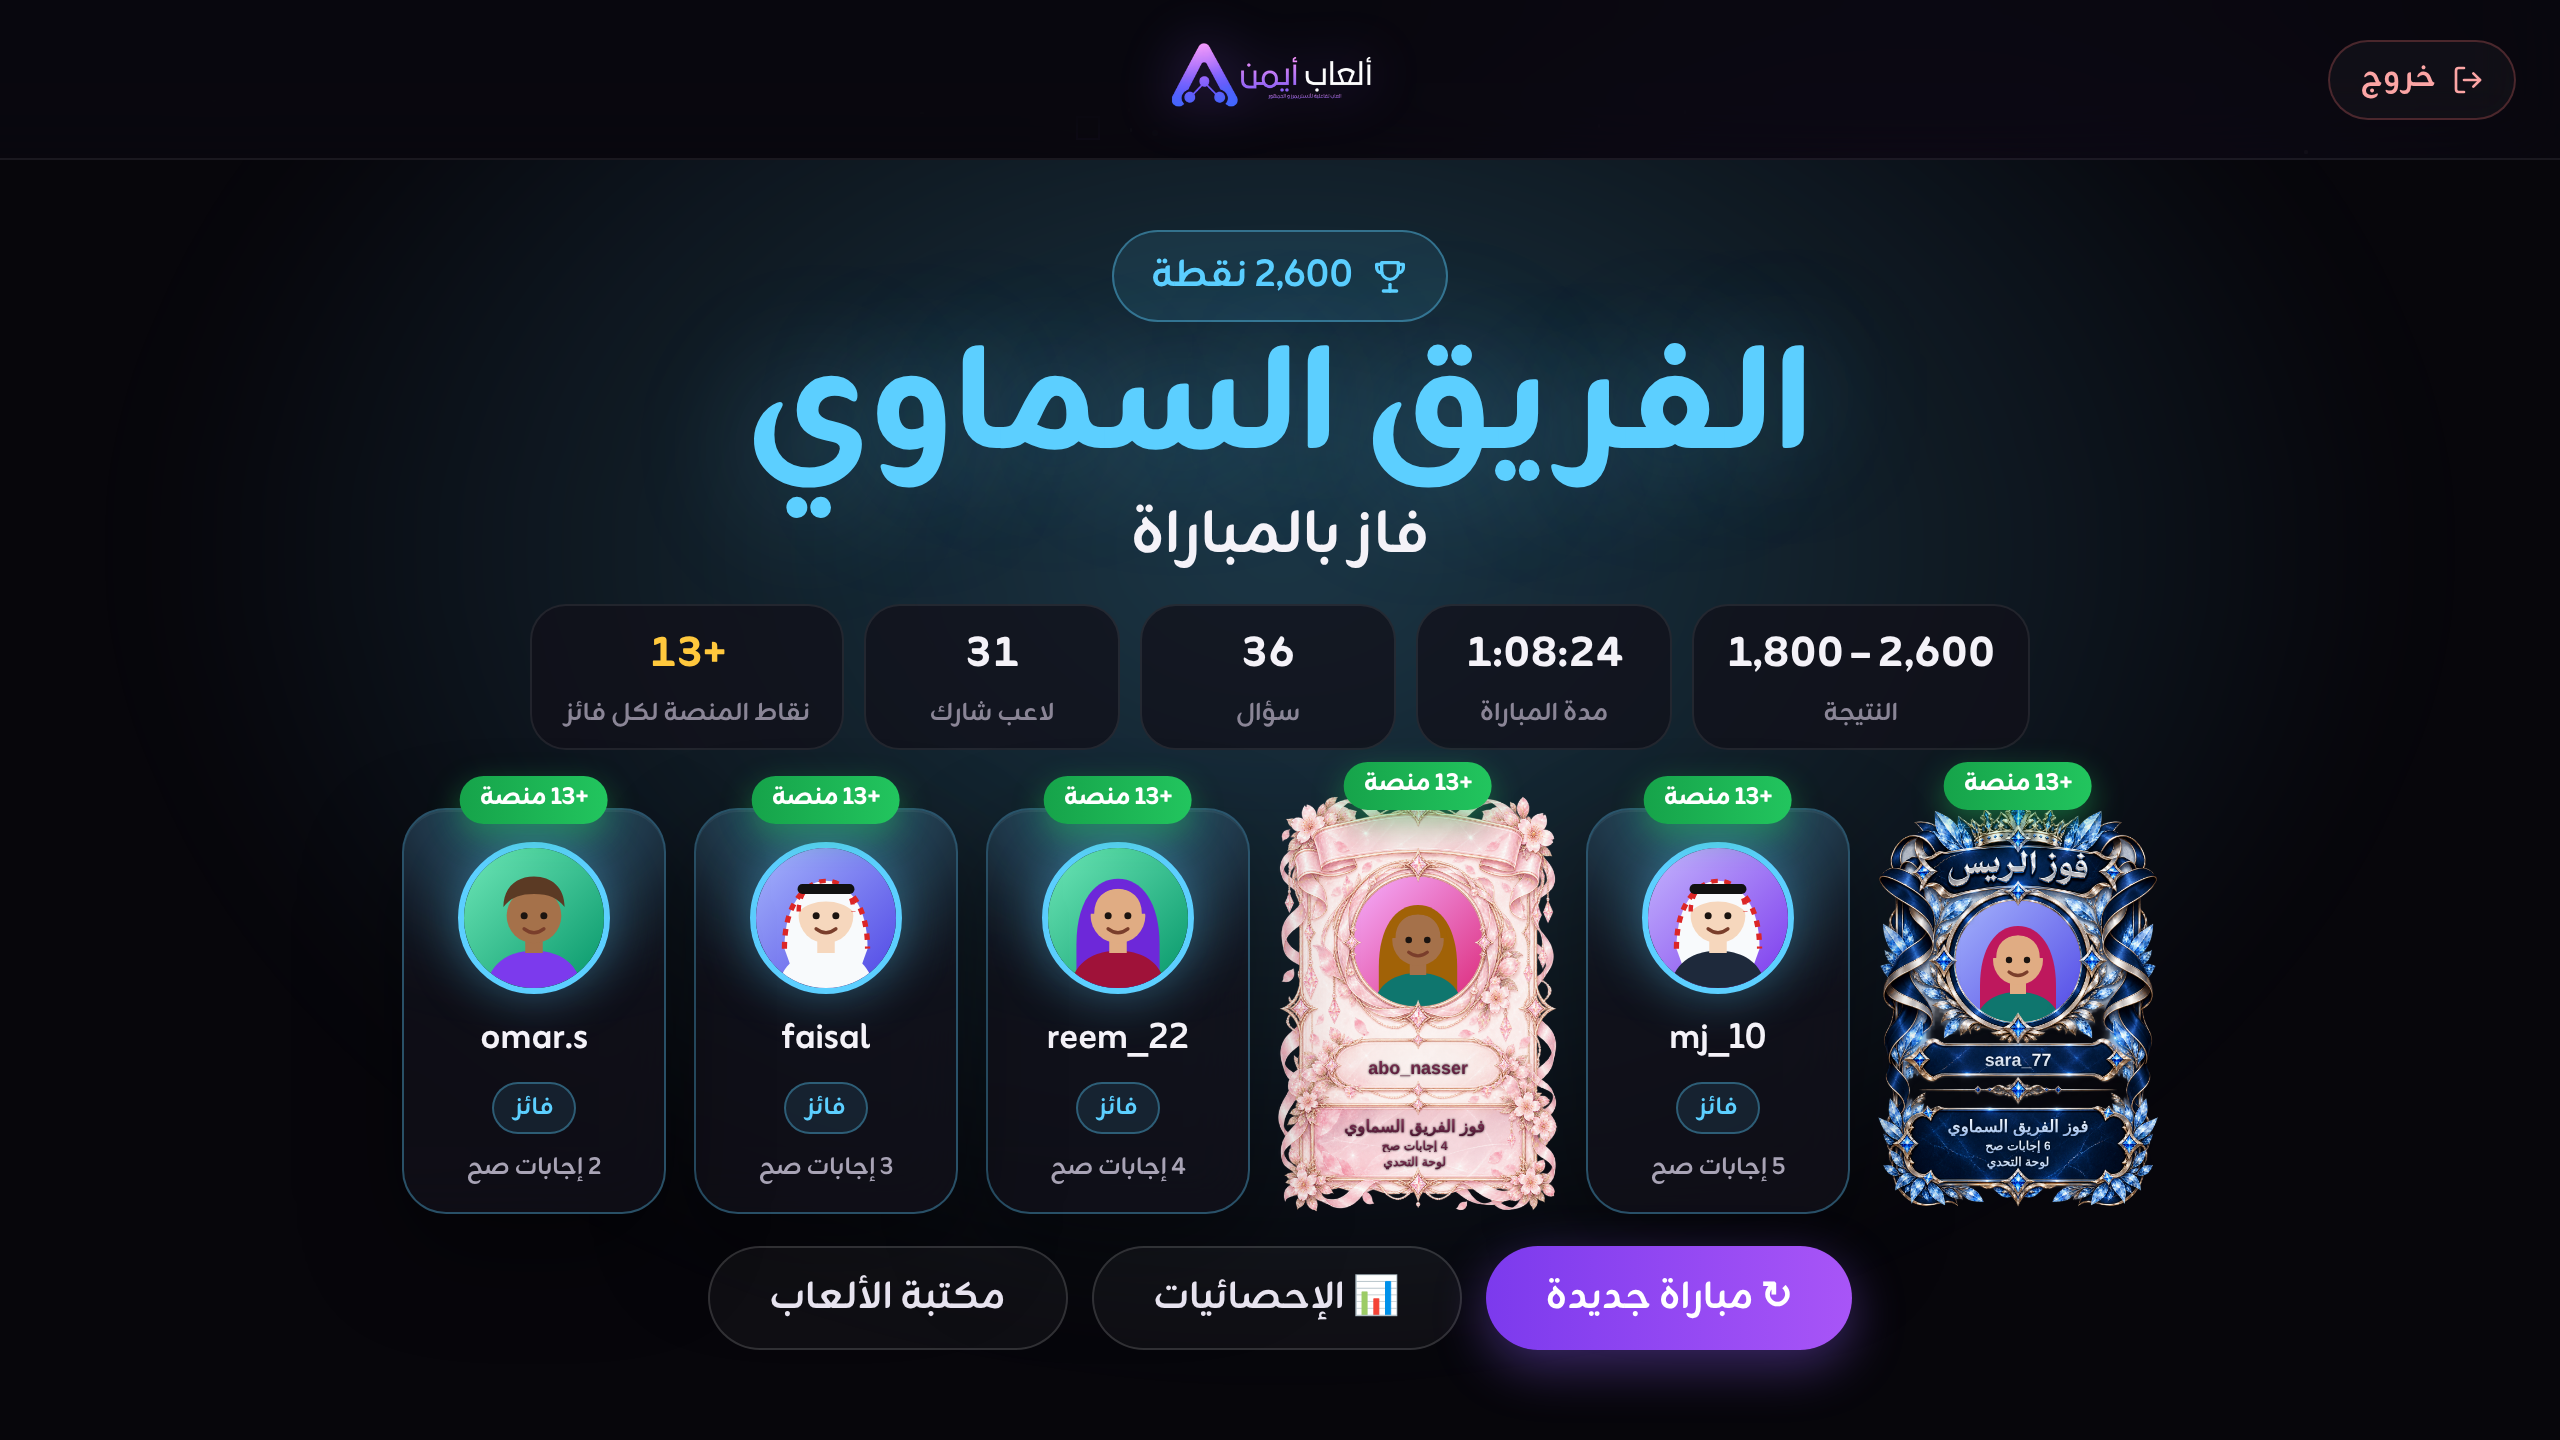
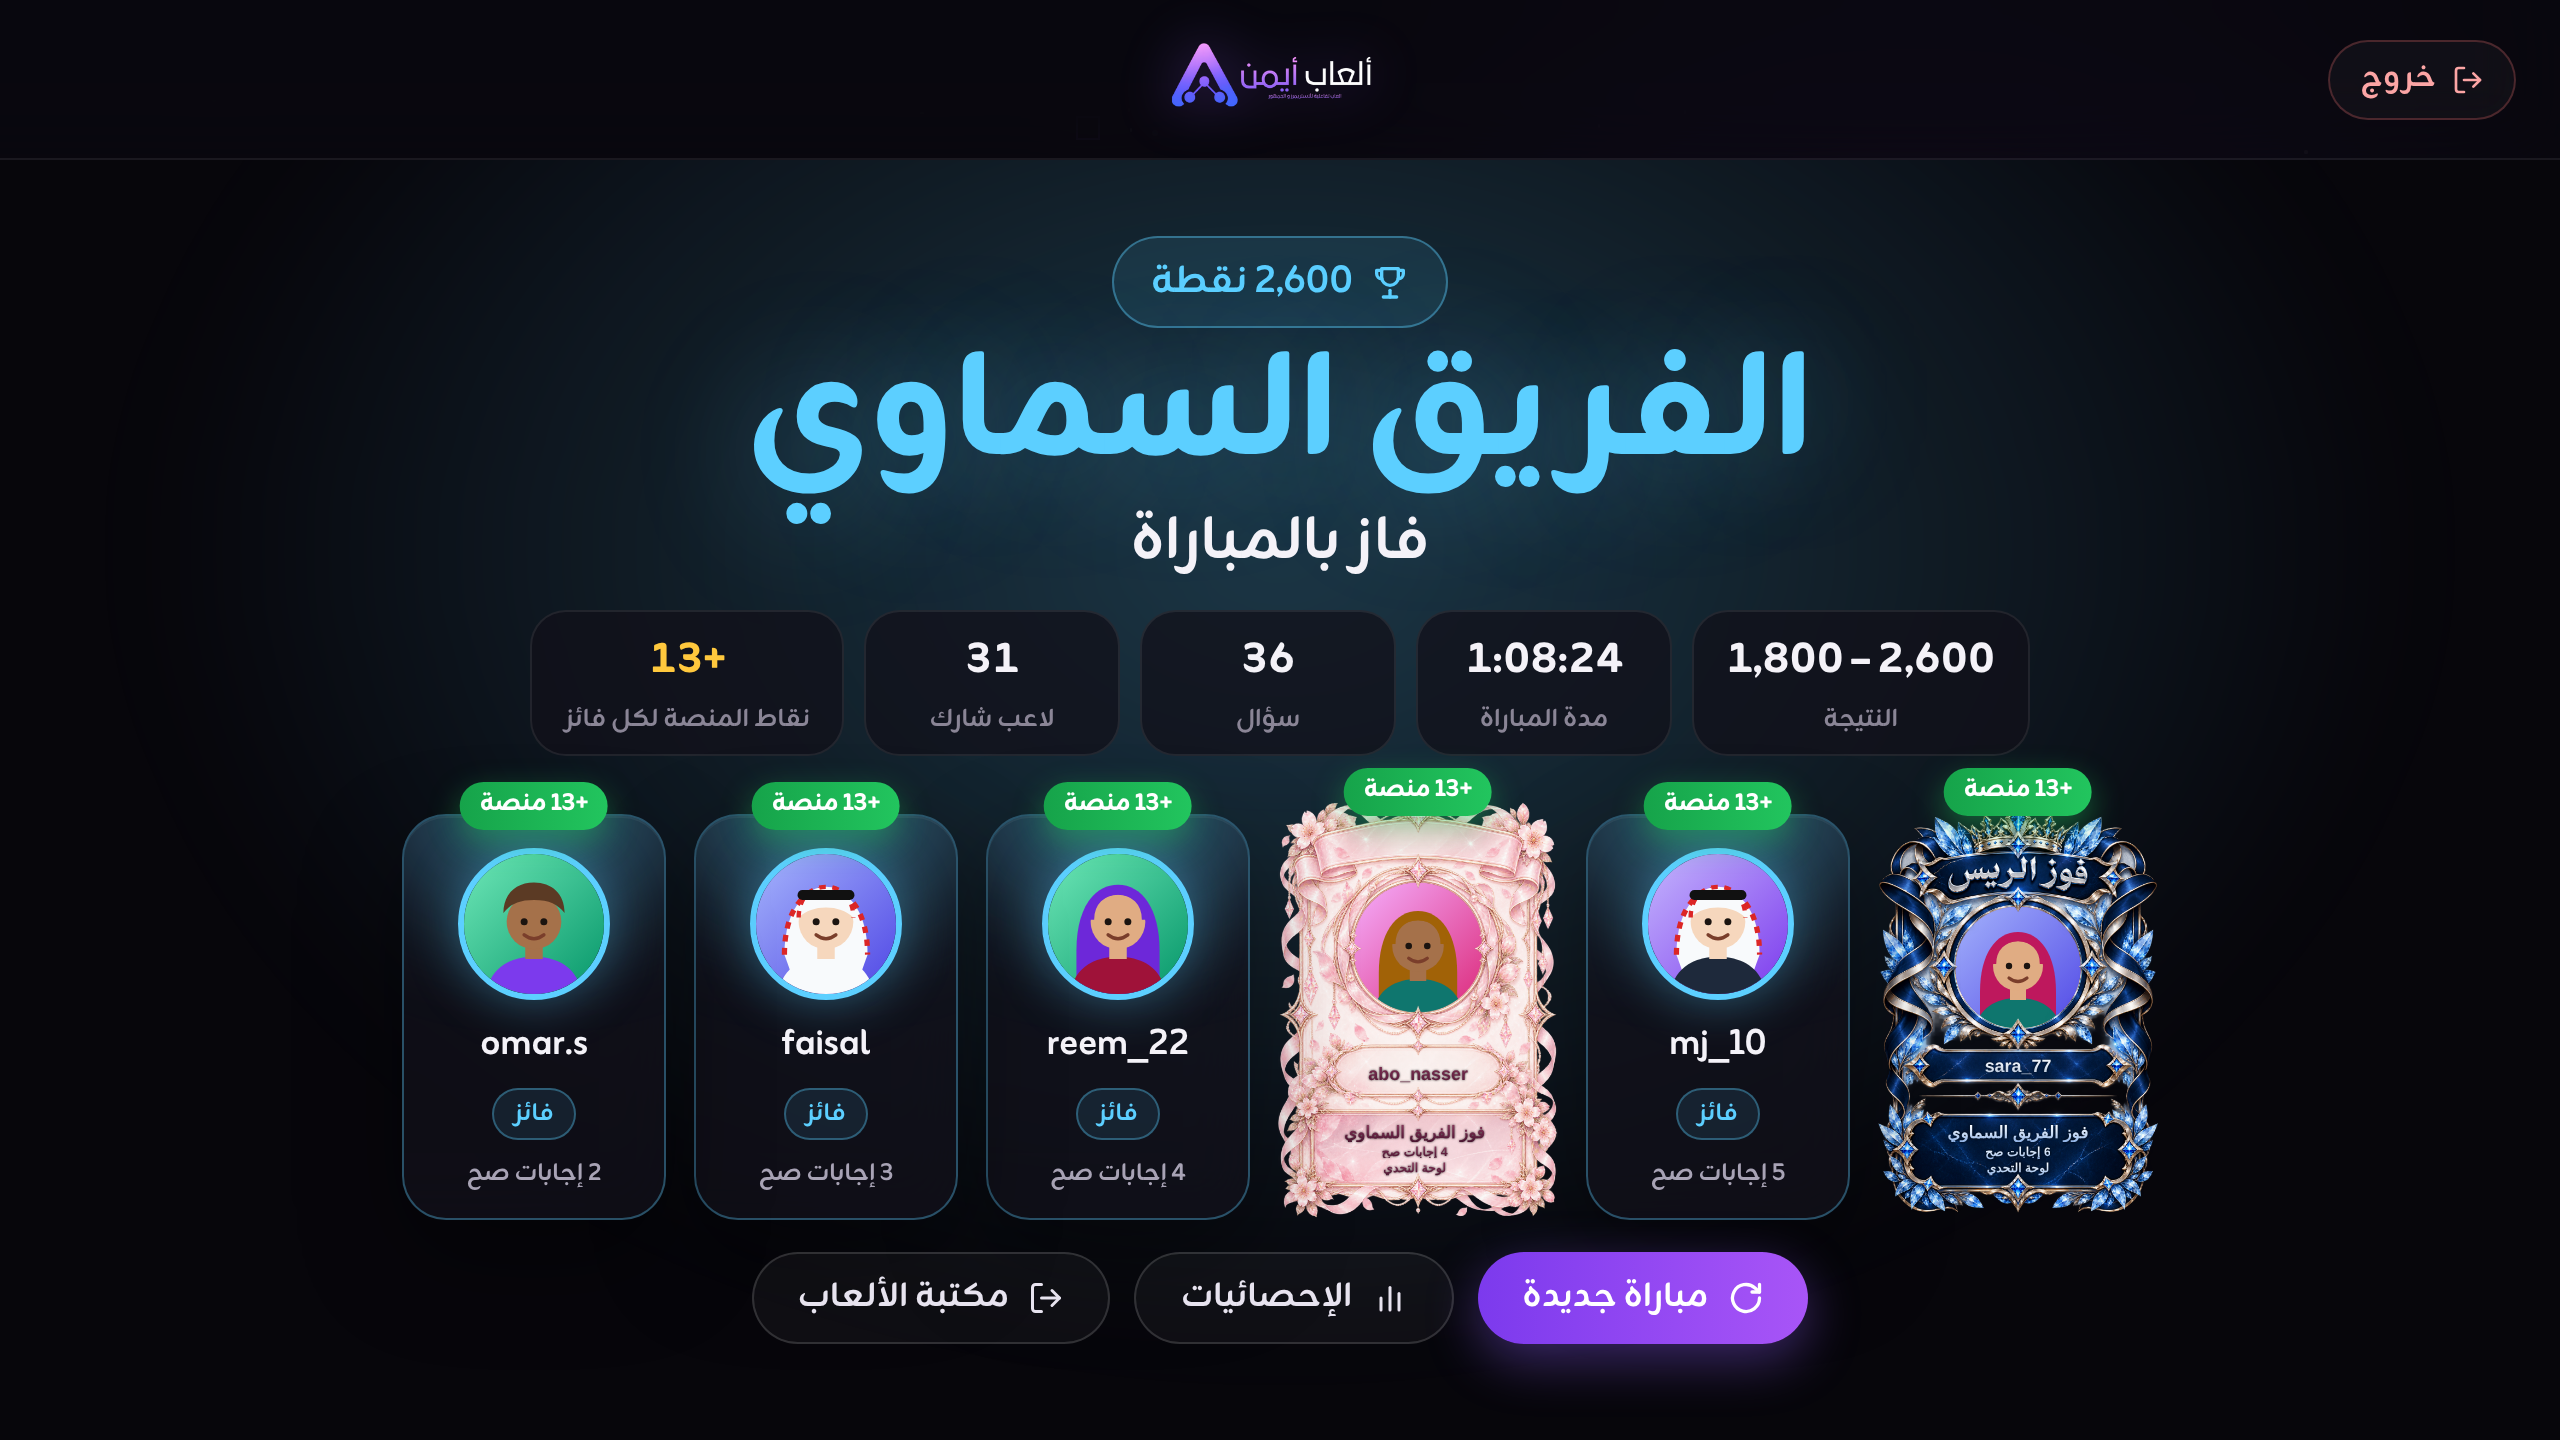
Resize and wire up quiz board win screen buttons
Claude-Session: https://claude.ai/code/session_017nUDNWXwpKqksHnjugR7G8

diff --git a/mockups/quiz-board/settings-lobby.html b/mockups/quiz-board/settings-lobby.html
@@ -133,6 +133,12 @@ main{position:fixed;top:80px;left:0;right:0;bottom:0;display:flex;flex-direction
 .cell>.fr{width:100%;min-width:0;display:flex;align-items:center}
 .trw,.trh{grid-template-columns:1fr 54px 64px 92px}
 .trw .pp.na{color:#8a8596;font-size:12px}
+
+.wb{height:46px;padding:0 22px;font:700 17px 'Zain';cursor:pointer;text-decoration:none;transition:filter .2s,background .2s,transform .15s}
+.wb:hover{background:rgba(255,255,255,.09)}.wb.p:hover{filter:brightness(1.1)}.wb:active{transform:scale(.97)}
+.smh .x{cursor:pointer}
+#stats .sm{animation:pop .45s cubic-bezier(.2,1.3,.35,1)}
+.bp,.back,.hbtn{cursor:pointer;text-decoration:none}
 </style><script>window.AymanGamesPlatform=window.AymanGamesPlatform||{};</script>
 <script src="../../js/agp-player-card.js"></script>
 <script src="../../js/agp-win-card.js"></script>
@@ -166,7 +172,7 @@ main{position:fixed;top:80px;left:0;right:0;bottom:0;display:flex;flex-direction
    <div class="row"><div class="lab"><div><b>الدخول التلقائي أثناء المباراة</b><small>اللاعب الجديد يكتب الكلمة المفتاحية ويدخل حتى بعد بداية المباراة</small></div></div><span class="tg"><i></i></span></div>
   </div>
  </div>
- <div class="foot"><span class="bp">التالي: اختيار الفئات<svg width="20" height="20" viewBox="0 0 24 24" fill="none" stroke="currentColor" stroke-width="2.4" stroke-linecap="round" stroke-linejoin="round"><polyline points="15 18 9 12 15 6"/></svg></span></div>
+ <div class="foot"><span class="bp" data-go="lobby">التالي: اختيار الفئات<svg width="20" height="20" viewBox="0 0 24 24" fill="none" stroke="currentColor" stroke-width="2.4" stroke-linecap="round" stroke-linejoin="round"><polyline points="15 18 9 12 15 6"/></svg></span></div>
 </section>
 
 <section class="screen" id="lobby">
@@ -181,17 +187,21 @@ main{position:fixed;top:80px;left:0;right:0;bottom:0;display:flex;flex-direction
     <span class="kwl">الكلمة المفتاحية · اكتبها في الشات للانضمام</span><span class="kw">وردي</span></div>
    <div class="pl" id="plB"></div></div>
  </div>
- <div class="foot"><span class="bp g">الدخول للمباراة<svg width="20" height="20" viewBox="0 0 24 24" fill="none" stroke="currentColor" stroke-width="2.4" stroke-linecap="round" stroke-linejoin="round"><polyline points="15 18 9 12 15 6"/></svg></span><span class="back">الرجوع للإعدادات</span></div>
+ <div class="foot"><span class="bp g" data-go="win">الدخول للمباراة<svg width="20" height="20" viewBox="0 0 24 24" fill="none" stroke="currentColor" stroke-width="2.4" stroke-linecap="round" stroke-linejoin="round"><polyline points="15 18 9 12 15 6"/></svg></span><span class="back" data-go="settings">الرجوع للإعدادات</span></div>
 </section>
 
 <section class="screen" id="win"><span class="ring"></span>
  <div class="wh"><span class="wpill"><svg width="20" height="20" viewBox="0 0 24 24" fill="none" stroke="currentColor" stroke-width="2" stroke-linecap="round" stroke-linejoin="round"><path d="M8 21h8"/><path d="M12 17v4"/><path d="M7 4h10v5a5 5 0 0 1-10 0z"/><path d="M17 5h3v2a3 3 0 0 1-3 3"/><path d="M7 5H4v2a3 3 0 0 0 3 3"/></svg>2,600 نقطة</span><span class="wname">الفريق السماوي</span><span class="wsub">فاز بالمباراة</span></div>
  <div class="wstats"><div class="ws"><b>2,600 – 1,800</b><span>النتيجة</span></div><div class="ws"><b>1:08:24</b><span>مدة المباراة</span></div><div class="ws"><b>36</b><span>سؤال</span></div><div class="ws"><b>31</b><span>لاعب شارك</span></div><div class="ws gold"><b>+13</b><span>نقاط المنصة لكل فائز</span></div></div>
  <div class="wcards" id="wcards"></div>
- <div class="wbtns"><span class="wb p">↻ مباراة جديدة</span><span class="wb">📊 الإحصائيات</span><span class="wb">مكتبة الألعاب</span></div>
+ <div class="wbtns">
+  <button class="wb p" data-go="settings"><svg width="18" height="18" viewBox="0 0 24 24" fill="none" stroke="currentColor" stroke-width="2.2" stroke-linecap="round" stroke-linejoin="round"><path d="M21 12a9 9 0 1 1-3-6.7L21 8"/><path d="M21 3v5h-5"/></svg>مباراة جديدة</button>
+  <button class="wb" data-go="stats"><svg width="18" height="18" viewBox="0 0 24 24" fill="none" stroke="currentColor" stroke-width="2" stroke-linecap="round"><line x1="6" y1="20" x2="6" y2="12"/><line x1="12" y1="20" x2="12" y2="5"/><line x1="18" y1="20" x2="18" y2="9"/></svg>الإحصائيات</button>
+  <a class="wb" href="https://aymngames.online/games.html"><svg width="18" height="18" viewBox="0 0 24 24" fill="none" stroke="currentColor" stroke-width="2" stroke-linecap="round" stroke-linejoin="round"><path d="M9 21H5a2 2 0 0 1-2-2V5a2 2 0 0 1 2-2h4"/><polyline points="16 17 21 12 16 7"/><line x1="21" y1="12" x2="9" y2="12"/></svg>مكتبة الألعاب</a>
+ </div>
 </section>
 <section class="screen" id="stats"><div class="sm">
- <div class="smh"><b>إحصائيات المباراة</b><span class="x">✕</span></div>
+ <div class="smh"><b>إحصائيات المباراة</b><button class="x" data-go="win" aria-label="إغلاق">✕</button></div>
  <div class="kpis">
   <div class="kp"><span>مدة المباراة</span><b>1:08:24</b></div>
   <div class="kp"><span>ساعات لعب كاملة</span><b>1 <small style="font-size:13px;color:#22c55e">+4 نقاط</small></b></div>
@@ -235,7 +245,9 @@ function drawFrames(){const AGP=window.AymanGamesPlatform;if(!AGP.playerCard)ret
  f.innerHTML=AGP.playerCard.renderHtml({id:n,name:n,avatarUrl:avatar(n),frame:{imageFilename:FR[n]}},{showFrame:true,basePath:'../../',size:Math.max(20,Math.floor(w/4.96))});AGP.playerCard.fitAllNames(f);});}
 fill('plA',['reem_22','sara_77','abo_nasser','mj_10','faisal','omar.s'],9,1);
 fill('plB',['khalid.x','fahad.q','noura.k','reem','salem','lama'],7,0);
-const h=location.hash.slice(1)||'settings';document.getElementById(h).classList.add('on');
+const h=location.hash.slice(1)||'settings';
+addEventListener('hashchange',()=>location.reload());
+document.addEventListener('click',e=>{const b=e.target.closest('[data-go]');if(b){e.preventDefault();location.hash=b.dataset.go;}});document.getElementById(h).classList.add('on');
 if(h==='lobby')requestAnimationFrame(drawFrames);
 const WIN=[['sara_77','rais-blue',6],['mj_10',null,5],['abo_nasser','sakura-pink',4],['reem_22',null,4],['faisal',null,3],['omar.s',null,2]];
 if(h==='win'||h==='stats'){document.getElementById('win').classList.add('on');document.querySelector('.lob').style.display='none';
